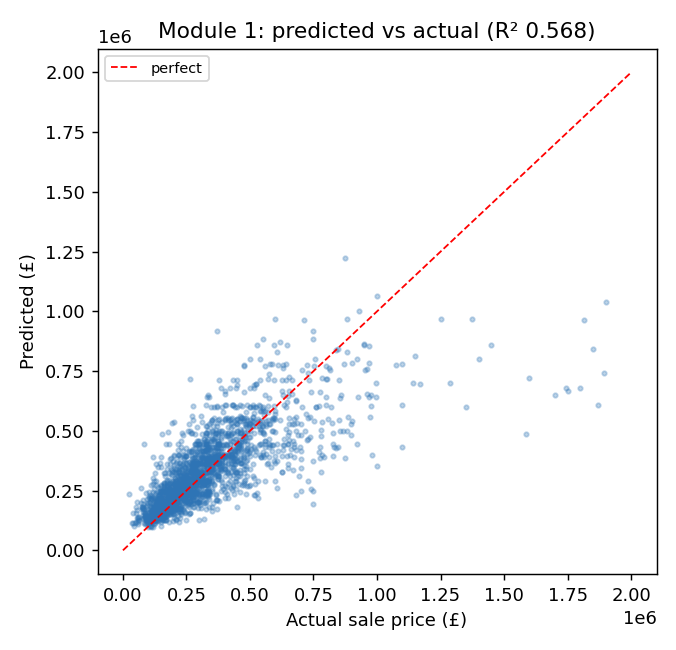
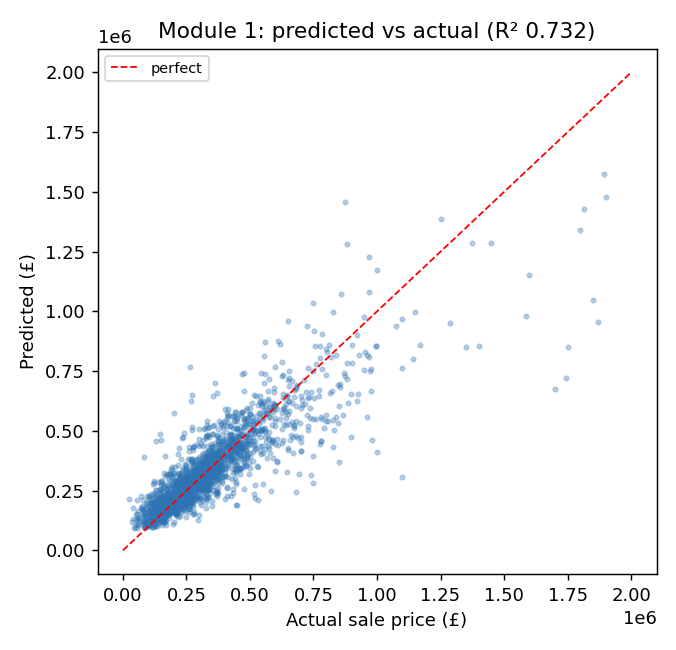
Module 1: real EPC result — R² 0.568 -> 0.732 (+0.164), 86% match
- trained on real HM Land Registry 2026 H1 + GOV.UK EPC (30.1M certs -> 4.31M properties)
- epc: per-file consolidation (bounded memory), tested equal to one-shot
- module1_summary.md, figures and first REAL metrics-history entry regenerated
- README/ROADMAP/About/testing report updated with real numbers + open issues
  (absolute-width intervals; weak London leave-one-region-out)
- requirements: pyarrow (parquet lookup)

diff --git a/src/data/epc.py b/src/data/epc.py
@@ -134,7 +134,8 @@ def _open(path: str, member: str | None):
     return zf.open(member)
 
 
-def load_bulk(epc_dir: str | Path, postcodes=None, chunksize: int = 500_000) -> pd.DataFrame:
+def load_bulk(epc_dir: str | Path, postcodes=None, chunksize: int = 500_000,
+              per_source=None) -> pd.DataFrame:
     """Read EPC bulk CSVs memory-safely.
 
     * Only CSVs whose header has a postcode AND total floor area are used.
@@ -142,6 +143,9 @@ def load_bulk(epc_dir: str | Path, postcodes=None, chunksize: int = 500_000) -> 
     * If `postcodes` is given (any iterable of postcodes, spaces/case ignored),
       rows for other postcodes are dropped chunk by chunk — so a national file
       shrinks to just the properties that can ever join to Price Paid.
+    * If `per_source` is given, each file's kept rows are passed through it as soon
+      as that file is read (e.g. de-duplicate to one row per property), so memory
+      is bounded by the reduced size, not the raw row count.
     """
     epc_dir = Path(epc_dir)
     sources = _candidate_sources(epc_dir)
@@ -164,6 +168,7 @@ def load_bulk(epc_dir: str | Path, postcodes=None, chunksize: int = 500_000) -> 
             continue
         usecols = [c for c, k in canon.items() if k in WANTED]
         rows_in = rows_kept = 0
+        mark = len(frames)
         try:
             with _open(path, member) as fh:
                 for chunk in pd.read_csv(fh, dtype=str, usecols=usecols,
@@ -178,6 +183,10 @@ def load_bulk(epc_dir: str | Path, postcodes=None, chunksize: int = 500_000) -> 
         except Exception as e:                           # noqa: BLE001
             log.warning("skipped rest of %s: %s", label, e)
         used += 1
+        if per_source is not None and len(frames) > mark:
+            reduced = per_source(pd.concat(frames[mark:], ignore_index=True))
+            del frames[mark:]
+            frames.append(reduced)
         log.info("EPC %s: %d rows read, %d kept", label, rows_in, rows_kept)
 
     if used == 0:
@@ -238,6 +247,35 @@ def fetch_api(postcodes, email=None, api_key=None, cache_csv=None) -> pd.DataFra
 
 
 # ------------------------------------------------------------------ consolidate
+_LOOKUP_COLS = ["pc_key", "house_no", "total_floor_area", "number_habitable_rooms",
+                "number_heated_rooms", "built_form", "construction_age_band"]
+
+
+def _clean_and_dedupe(raw: pd.DataFrame) -> pd.DataFrame:
+    """Raw EPC rows -> one latest record per (pc_key, house_no), keeping `_date`.
+
+    Re-applicable: running it on concatenated outputs gives the same result as
+    running it once on all the raw rows, which is what lets build_epc_lookup
+    reduce file by file."""
+    df = raw.copy()
+    if "_date" not in df.columns:                       # raw rows (not yet reduced)
+        df["total_floor_area"] = pd.to_numeric(df["total_floor_area"], errors="coerce")
+        for c in ("number_habitable_rooms", "number_heated_rooms"):
+            df[c] = pd.to_numeric(df[c], errors="coerce")
+        # plausibility guards (EPC has data-entry noise)
+        df.loc[(df["total_floor_area"] < 10) | (df["total_floor_area"] > 2000), "total_floor_area"] = np.nan
+        df.loc[(df["number_habitable_rooms"] < 1) | (df["number_habitable_rooms"] > 20),
+               "number_habitable_rooms"] = np.nan
+        df["pc_key"] = _norm_postcode(df["postcode"])
+        df["house_no"] = _house_number(df["address1"])
+        df["_date"] = pd.to_datetime(df.get("lodgement_date"), errors="coerce").fillna(
+            pd.to_datetime(df.get("inspection_date"), errors="coerce"))
+        df = df.dropna(subset=["pc_key", "house_no", "total_floor_area"])
+    df = (df.sort_values("_date", kind="stable")
+            .drop_duplicates(subset=["pc_key", "house_no"], keep="last"))
+    return df[_LOOKUP_COLS + ["_date"]].reset_index(drop=True)
+
+
 def consolidate(raw: pd.DataFrame) -> pd.DataFrame:
     """
     Clean the raw EPC rows into one best record per (postcode, house number).
@@ -245,29 +283,9 @@ def consolidate(raw: pd.DataFrame) -> pd.DataFrame:
     * numeric floor area / room counts, with implausible values dropped,
     * most RECENT certificate kept per property (EPCs are re-lodged over time),
     * a compact join key (`pc_key`, `house_no`).
+    Accepts raw rows or already-reduced rows (from _clean_and_dedupe).
     """
-    df = raw.copy()
-    df["total_floor_area"] = pd.to_numeric(df["total_floor_area"], errors="coerce")
-    for c in ("number_habitable_rooms", "number_heated_rooms"):
-        df[c] = pd.to_numeric(df[c], errors="coerce")
-
-    # plausibility guards (EPC has data-entry noise)
-    df.loc[(df["total_floor_area"] < 10) | (df["total_floor_area"] > 2000), "total_floor_area"] = np.nan
-    df.loc[(df["number_habitable_rooms"] < 1) | (df["number_habitable_rooms"] > 20), "number_habitable_rooms"] = np.nan
-
-    df["pc_key"] = _norm_postcode(df["postcode"])
-    df["house_no"] = _house_number(df["address1"])
-    date = pd.to_datetime(df.get("lodgement_date"), errors="coerce").fillna(
-        pd.to_datetime(df.get("inspection_date"), errors="coerce"))
-    df["_date"] = date
-
-    df = df.dropna(subset=["pc_key", "house_no", "total_floor_area"])
-    df = (df.sort_values("_date")
-            .drop_duplicates(subset=["pc_key", "house_no"], keep="last"))
-
-    keep = ["pc_key", "house_no", "total_floor_area", "number_habitable_rooms",
-            "number_heated_rooms", "built_form", "construction_age_band"]
-    out = df[keep].reset_index(drop=True)
+    out = _clean_and_dedupe(raw)[_LOOKUP_COLS].reset_index(drop=True)
     log.info("EPC consolidated: %d unique properties", len(out))
     return out
 
@@ -275,7 +293,8 @@ def consolidate(raw: pd.DataFrame) -> pd.DataFrame:
 def build_epc_lookup(epc_raw_dir: str | Path, out_parquet: str | Path,
                      postcodes=None) -> pd.DataFrame:
     """End-to-end: read bulk EPC (optionally postcode-filtered) -> consolidate -> write lookup."""
-    lookup = consolidate(load_bulk(epc_raw_dir, postcodes=postcodes))
+    lookup = consolidate(load_bulk(epc_raw_dir, postcodes=postcodes,
+                                   per_source=_clean_and_dedupe))
     out_parquet = Path(out_parquet)
     out_parquet.parent.mkdir(parents=True, exist_ok=True)
     try:

diff --git a/tests/test_epc_bulk.py b/tests/test_epc_bulk.py
@@ -1,4 +1,5 @@
 """load_bulk(): any file name, header-based detection, chunking, postcode filter."""
+import pandas as pd
 import pytest
 
 from src.data.epc import build_epc_lookup, load_bulk
@@ -66,3 +67,19 @@ def test_truncated_zip_is_skipped_not_fatal(tmp_path):
     (tmp_path / "partial.zip").write_bytes(b"PK\x03\x04 incomplete download")
     _write(tmp_path / "ok.csv", ["1,12 High St,,AB1 2CD,80,4,House,2025-01-01,C\n"])
     assert len(load_bulk(tmp_path)) == 1
+
+
+def test_per_source_reduction_matches_one_shot(tmp_path):
+    """File-by-file dedupe must equal consolidating all raw rows at once."""
+    from src.data.epc import _clean_and_dedupe, consolidate
+    _write(tmp_path / "certificates-2015.csv",
+           ["1,12 High St,,AB1 2CD,70,3,House,2015-01-01,D\n",     # superseded later
+            "2,14 High St,,AB1 2CD,90,4,House,2015-05-01,C\n"])
+    _write(tmp_path / "certificates-2024.csv",
+           ["3,12 High St,,AB1 2CD,85,4,House,2024-03-01,B\n",     # newest for no.12
+            "4,7 Low Rd,,EF3 4GH,50,2,Flat,2024-01-01,C\n"])
+    one_shot = consolidate(load_bulk(tmp_path)).sort_values(["pc_key", "house_no"]).reset_index(drop=True)
+    reduced = consolidate(load_bulk(tmp_path, per_source=_clean_and_dedupe)
+                          ).sort_values(["pc_key", "house_no"]).reset_index(drop=True)
+    pd.testing.assert_frame_equal(one_shot, reduced)
+    assert one_shot.set_index("house_no").loc["12", "total_floor_area"] == 85

diff --git a/app/streamlit_app.py b/app/streamlit_app.py
@@ -68,7 +68,8 @@ with st.sidebar:
             "data** (ONS, HM Land Registry, data.police.uk) and explains every estimate.\n\n"
             "- **Rent (Module 2):** XGBoost, R² 0.90; SHAP explanations; affordability vs the "
             "30% income benchmark; **calibrated 80% prediction intervals** (conformal).\n"
-            "- **Sale price (Module 1):** HM Land Registry + optional EPC floor area.\n"
+            "- **Sale price (Module 1):** HM Land Registry + EPC floor area/rooms; XGBoost R² 0.73 "
+            "(0.57 without EPC).\n"
             "- **Geospatial (Module 3):** crime driver; OSM/Ofsted layers + maps in progress.\n"
             "- **Forecasting (Module 4):** ARIMA / Holt-Winters regional trends; rolling-origin "
             "backtest with recalibrated (conformal) 80/95% bands.\n\n"

diff --git a/reports/module1_summary.md b/reports/module1_summary.md
@@ -1,40 +1,43 @@
-# Module 1 - Sale Price Prediction (summary) [REAL HM Land Registry data]
+# Module 1 - Sale Price Prediction (summary) [REAL HM Land Registry + EPC floor area]
 
 ## Model comparison (held-out test set)
 | Model | Test RMSE (£) | Test MAE (£) | Test R² |
 |---|---|---|---|
-| OLS (baseline) | 150,749 | 97,005 | 0.505 |
-| Random Forest | 141,050 | 88,776 | 0.567 |
-| XGBoost | 140,886 | 88,714 | 0.568 |
+| OLS (baseline) | 124,309 | 78,931 | 0.664 |
+| Random Forest | 116,735 | 72,353 | 0.703 |
+| XGBoost | 110,933 | 68,235 | 0.732 |
 
-**Best model:** XGBoost (R² 0.568).
+**Best model:** XGBoost (R² 0.732).
+
+**EPC enrichment:** floor area + rooms lift XGBoost from R² 0.568 to **0.732** (+0.164); EPC match rate 86% of sales.
 
 ## SHAP feature importance (best model, mean £ impact on sale price)
-- **local area price level**: £105,763
-- **detached**: £69,700
-- **freehold tenure**: £19,113
-- **flat**: £17,324
-- **semi-detached**: £10,892
-- **terraced**: £7,032
-- **new build**: £65
+- **local area price level**: £98,079
+- **floor area (m²)**: £68,290
+- **detached**: £30,820
+- **has EPC match**: £14,184
+- **freehold tenure**: £10,424
+- **semi-detached**: £6,842
+- **habitable rooms**: £6,822
+- **flat**: £6,562
 
 ## Calibrated uncertainty (split-conformal, 90%)
-- 90% prediction-interval half-width ≈ £193,696; empirical coverage 90% on the test set.
+- 90% prediction-interval half-width ≈ £154,252; empirical coverage 90% on the test set.
 
 ## Cross-regional validation (leave-one-region-out)
 | Region | RMSE (£) | R² | n |
 |---|---|---|---|
-| East Midlands | 137,330 | 0.060 | 3,570 |
-| East of England | 196,043 | 0.098 | 4,563 |
-| London | 413,737 | -1.218 | 3,774 |
-| North East | 158,469 | -0.437 | 1,890 |
-| North West | 136,337 | 0.206 | 5,192 |
-| South East | 227,633 | 0.052 | 6,878 |
-| South West | 161,369 | 0.208 | 4,732 |
-| Wales | 133,856 | -0.129 | 1,891 |
-| West Midlands | 129,403 | 0.333 | 3,486 |
-| Yorkshire and The Humber | 148,949 | 0.078 | 4,024 |
+| East Midlands | 104,259 | 0.458 | 3,570 |
+| East of England | 168,425 | 0.334 | 4,563 |
+| London | 380,422 | -0.875 | 3,774 |
+| North East | 138,116 | -0.092 | 1,890 |
+| North West | 111,369 | 0.470 | 5,192 |
+| South East | 199,280 | 0.273 | 6,878 |
+| South West | 133,309 | 0.460 | 4,732 |
+| Wales | 120,065 | 0.091 | 1,891 |
+| West Midlands | 100,447 | 0.598 | 3,486 |
+| Yorkshire and The Humber | 121,477 | 0.387 | 4,024 |
 
-Mean leave-one-region-out RMSE £184,313 — a deliberately strict generalisation test.
+Mean leave-one-region-out RMSE £157,717 — a deliberately strict generalisation test.
 
 *Modelled on 90,000 of 216,172 cleaned standard residential sales; district median-price target encoding from training data only.*

diff --git a/reports/TESTING_REPORT_module1.md b/reports/TESTING_REPORT_module1.md
@@ -64,9 +64,27 @@ needs the real EPC dataset (free, user-supplied — see `DATA_SOURCES.md`).
 - **Real result:** will be produced by `python -m src.data.epc` then
   `python run_module1_enriched.py` once EPC bulk/API data is in place.
 
+## 4b. Real EPC result (21 Nov 2026)
+
+Built from the GOV.UK `domestic-csv.zip` (Sep 2008 – Oct 2026; 19 yearly certificate files,
+30.1M certificates streamed from the zip, filtered to the 209,062 Price Paid postcodes,
+reduced to **4,305,581 unique properties**). Mac and sandbox runs produced identical per-year counts.
+
+| | Real result |
+|---|---|
+| EPC match rate | **86.2%** (186,245 of 216,172 cleaned sales) |
+| XGBoost R², no EPC → with EPC | **0.568 → 0.732 (+0.164)** |
+| Best model test RMSE / MAE | £110,933 / £68,235 |
+| Floor area SHAP rank | #2 (£68,290 mean impact), after local price level |
+| 90% conformal interval | ±£154,252, empirical coverage 90% |
+
+The real lift (+0.164) is smaller than the synthetic-fixture illustration (+0.238), as expected.
+Open issues: the interval is a single absolute width (too wide for cheap homes, too narrow for
+expensive ones → move to relative/log-scale conformal); leave-one-region-out remains weak for
+London (R² −0.88), so London predictions need a region-aware treatment.
+
 ## 5. Known gaps / not yet covered
 
-- Real EPC accuracy is **not yet measured** (blocked on the free EPC download).
 - `ruff`/`black` linting not run here (no `ruff` in this environment) — will be part of Milestone 1 CI.
 - No property-level address fuzzy-matching yet (we match on postcode + house number; flats/named houses that carry no number don't match and are reported honestly).
 

diff --git a/README.md b/README.md
@@ -16,7 +16,7 @@ RentWise UK predicts long-term rental prices and residential sale prices across 
 | Module | What | Headline |
 |---|---|---|
 | **2 · Rent & affordability** | Predicts LA-level rents, scores them vs the 30% income benchmark, explains with SHAP | XGBoost **R² 0.90**, +29% over baseline; **calibrated 80% intervals** |
-| **1 · Sale price** | HM Land Registry price model, optional **EPC floor-area** enrichment | XGBoost R² 0.567 → higher with EPC; conformal intervals |
+| **1 · Sale price** | HM Land Registry price model enriched with **EPC floor area + rooms** (86% of sales matched) | XGBoost R² **0.568 → 0.732** with EPC; 90% conformal intervals |
 | **3 · Geospatial** | Spatial drivers of rent (crime live; OSM/Ofsted + maps in progress) | SHAP + ablation; interactive choropleths |
 | **4 · Forecasting** | ARIMA / Holt-Winters regional rent trends; rolling-origin backtest + conformal intervals | mean MAPE ~0.6%, recalibrated 80/95% bands |
 

diff --git a/ROADMAP.md b/ROADMAP.md
@@ -12,7 +12,7 @@
 
 | Area | Current state | Gap to close |
 |---|---|---|
-| **Module 1 — Sale price** | XGBoost R² **0.567** on HM Land Registry (2026 H1, 90k sample) | No floor area / bedrooms → accuracy capped |
+| **Module 1 — Sale price** | XGBoost R² **0.567** on HM Land Registry (2026 H1, 90k sample) → **0.732 with real EPC** (done) | Wide absolute intervals (±£154k at 90%); weak London generalisation |
 | **Module 2 — Rent & affordability** | XGBoost R² **0.900**, SHAP, 30% benchmark | Area-level only; no calibrated intervals |
 | **Module 3 — Geospatial** | Crime driver only | No transport / schools / green space / amenities; no maps |
 | **Module 4 — Forecasting** | ARIMA + Holt-Winters, MAPE ~0.6% | Intervals slightly mis-calibrated |
